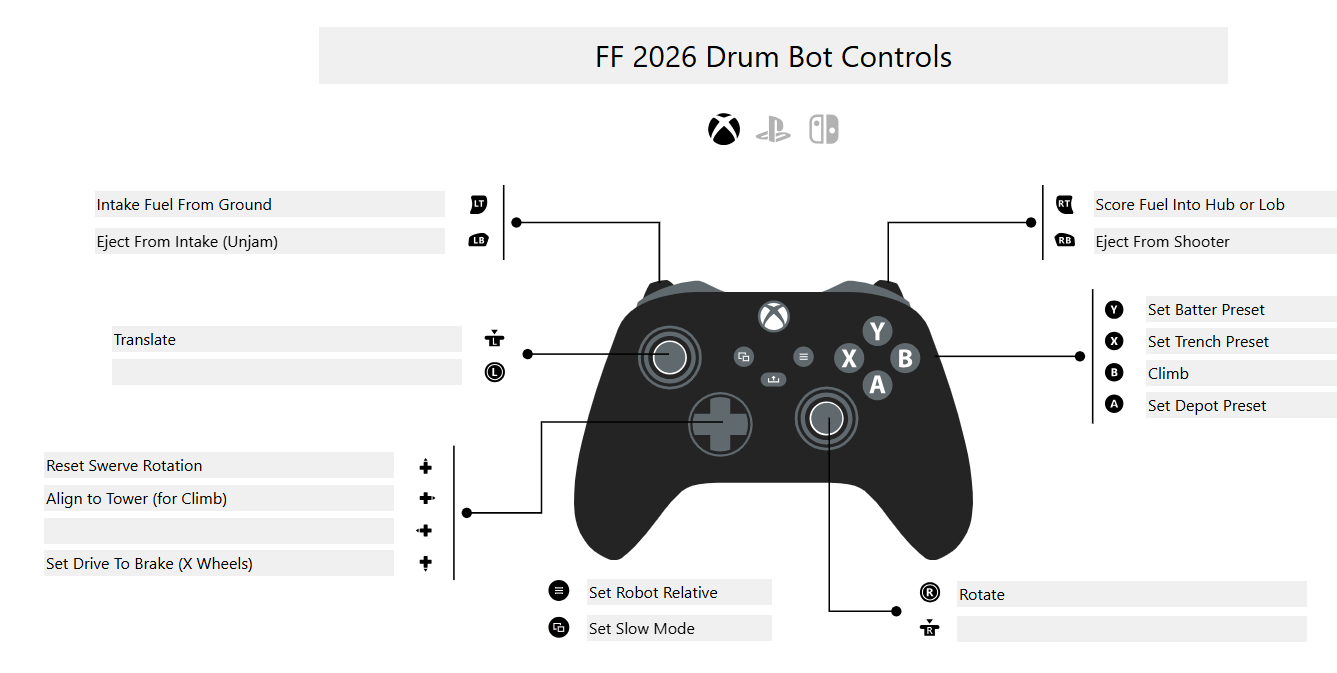
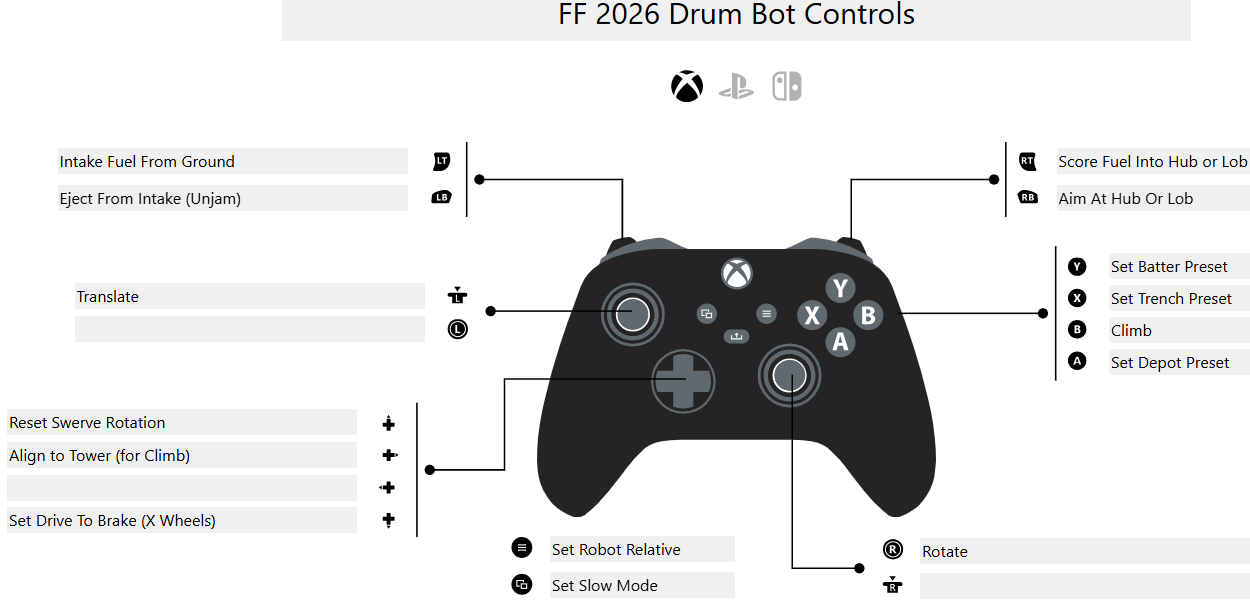
Update README

diff --git a/docs/README.md b/docs/README.md
@@ -8,7 +8,7 @@ This is a ground-up rewrite of our robot code for the 2026 FIRST Robotics game *
 
 ![Controller Layout](../images/ControllerLayout.png)
 
-[View interactive version on PadCrafter](https://www.padcrafter.com/?templates=FF+2026+Drum+Bot+Controls&plat=0&leftStick=&rightStickClick=&rightStick=Rotate&leftStickClick=Translate&dpadUp=Reset+Swerve+Rotation&dpadRight=Align+to+Tower+%28for+Climb%29&dpadLeft=&dpadDown=Set+Drive+To+Brake+%28X+Wheels%29&backButton=Set+Slow+Mode&startButton=Set+Robot+Relative&yButton=Set+Batter+Preset&xButton=Set+Trench+Preset&aButton=Set+Depot+Preset&bButton=Climb&leftTrigger=Intake+Fuel+From+Ground&rightTrigger=Score+Fuel+Into+Hub+or+Lob&leftBumper=Eject+From+Intake+%28Unjam%29&rightBumper=Eject+From+Shooter&col=%2523242424%2C%2523606A6E%2C%2523FFFFFF)
+[View interactive version on PadCrafter](https://www.padcrafter.com/?templates=FF+2026+Drum+Bot+Controls&plat=0&leftStick=&rightStickClick=&rightStick=Rotate&leftStickClick=Translate&dpadUp=Reset+Swerve+Rotation&dpadRight=Align+to+Tower+%28for+Climb%29&dpadLeft=&dpadDown=Set+Drive+To+Brake+%28X+Wheels%29&backButton=Set+Slow+Mode&startButton=Set+Robot+Relative&yButton=Set+Batter+Preset&xButton=Set+Trench+Preset&aButton=Set+Depot+Preset&bButton=Climb&leftTrigger=Intake+Fuel+From+Ground&rightTrigger=Score+Fuel+Into+Hub+or+Lob&leftBumper=Eject+From+Intake+%28Unjam%29&rightBumper=Aim+At+Hub+Or+Lob&col=%2523242424%2C%2523606A6E%2C%2523FFFFFF)
 
 [If using a keyboard, read the simulation docs for this repository](../sim/README.md)
 
